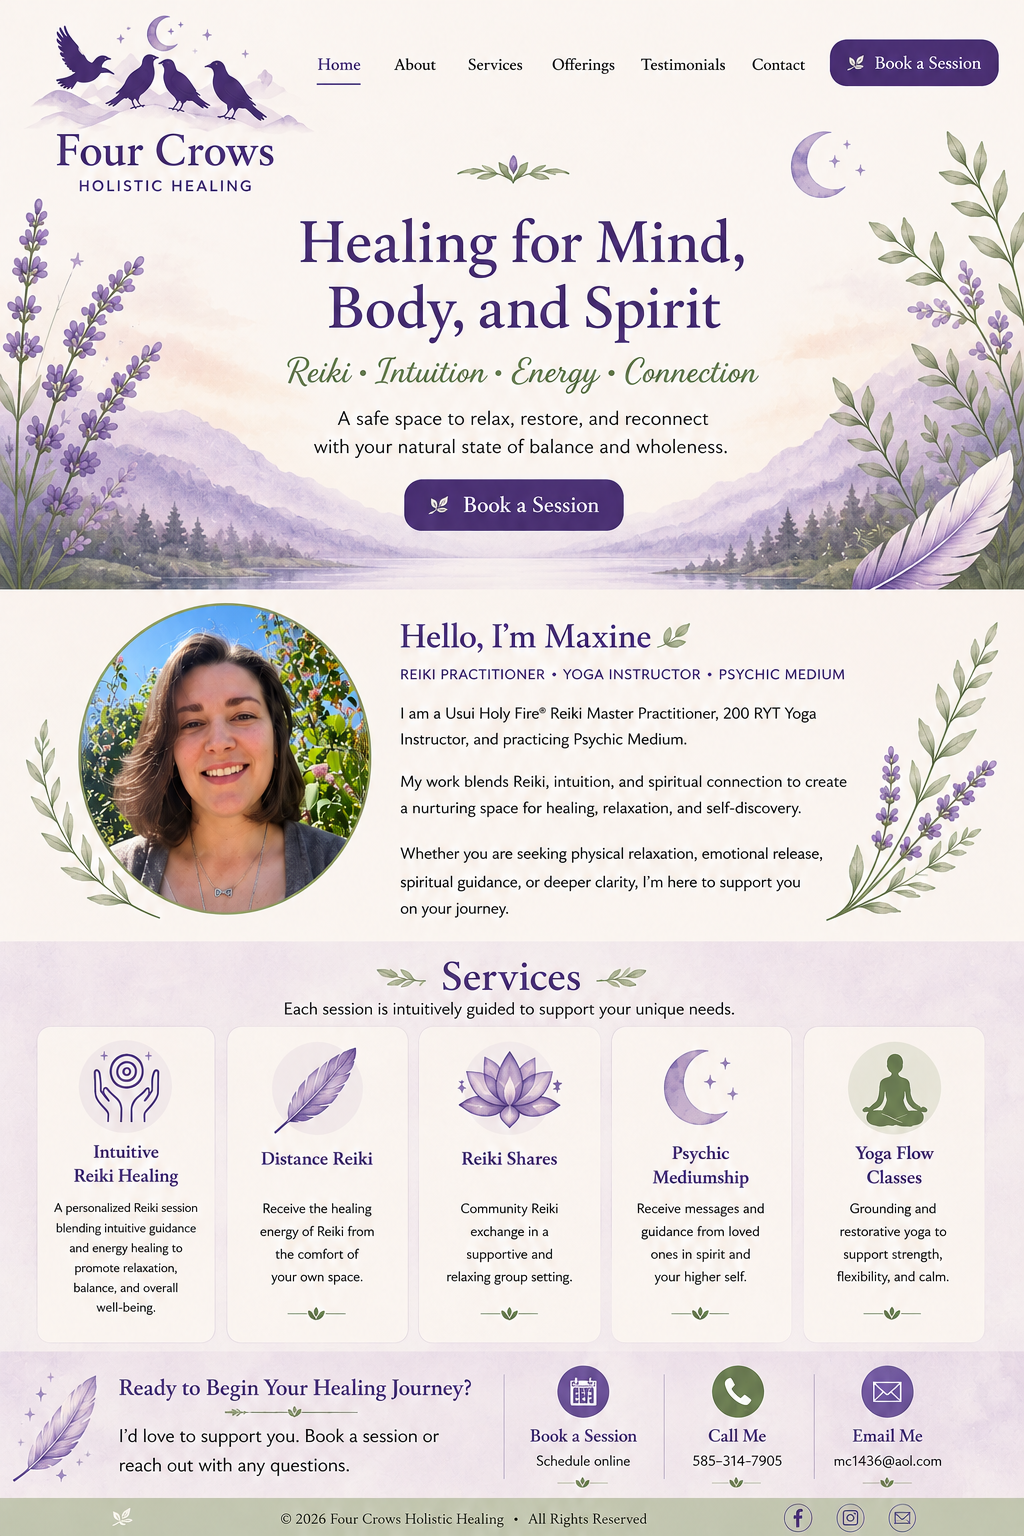
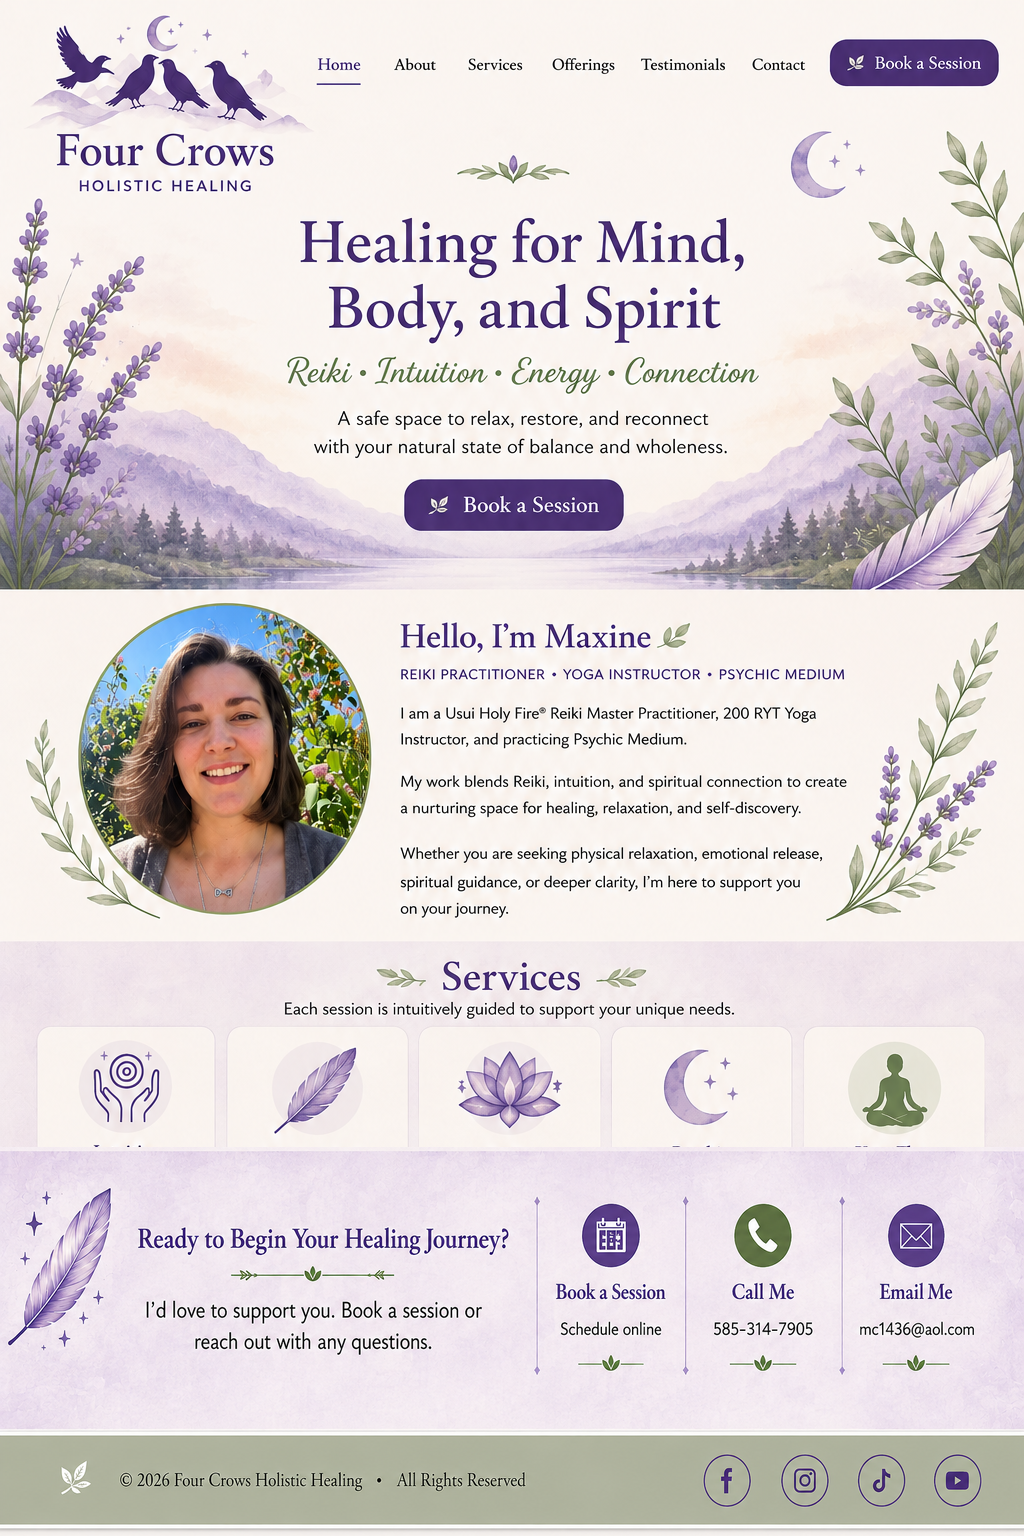
Add files via upload

Changed region(s): [[0.0, 0.75, 1.0, 1.0]]

diff --git a/index.html b/index.html
@@ -3,153 +3,167 @@
 <head>
 <meta charset="UTF-8">
 <meta name="viewport" content="width=device-width, initial-scale=1.0">
+<meta name="description" content="Four Crows Holistic Healing">
 <title>Four Crows Holistic Healing</title>
+
 <style>
-html,body{
-  margin:0;
-  padding:0;
-  background:#f7f1eb;
-}
-.page{
-  position:relative;
-  width:min(100%,1024px);
-  margin:0 auto;
-  line-height:0;
-}
-.page img{
-  display:block;
-  width:100%;
-  height:auto;
+html, body {
+  margin: 0;
+  padding: 0;
+  background: #f7f1eb;
 }
 
-/* Existing clickable areas */
-.hit{
-  position:absolute;
-  display:block;
-  z-index:10;
-  background:transparent;
-}
-.top-book{left:81.8%;top:2%;width:15.5%;height:3.2%}
-.hero-book{left:39.2%;top:31.5%;width:21.5%;height:3.7%}
-.bottom-book{left:50.0%;top:88.4%;width:14.5%;height:5.4%}
-.phone{left:64.8%;top:88.4%;width:14.0%;height:5.4%}
-.email{left:79.2%;top:88.4%;width:17.5%;height:5.4%}
-
-/*
-  Only this tiny patch covers the 3 baked-in footer icons.
-  It stays INSIDE the existing sage footer and does not alter page height.
-*/
-.social-patch{
-  position:absolute;
-  right:5.0%;
-  bottom:0.55%;
-  width:22.5%;
-  height:3.15%;
-  background:#aab196;
-  z-index:20;
-  display:flex;
-  align-items:center;
-  justify-content:flex-end;
-  gap:8px;
-  padding-right:2px;
-  line-height:normal;
+.page {
+  position: relative;
+  width: min(100%, 1024px);
+  margin: 0 auto;
+  line-height: 0;
 }
 
-/* Real clickable social icons */
-.social{
-  width:28px;
-  height:28px;
-  flex:0 0 28px;
-  border:1.5px solid #5f4380;
-  border-radius:50%;
-  display:flex;
-  align-items:center;
-  justify-content:center;
-  color:#5f4380;
-  background:#aab196;
-  text-decoration:none;
-  font-family:Arial,Helvetica,sans-serif;
-  font-weight:700;
-  font-size:15px;
-  line-height:1;
+.page img {
+  display: block;
+  width: 100%;
+  height: auto;
 }
-.social:hover,
-.social:focus{
-  background:#5f4380;
-  color:#fff;
-}
-.instagram{font-size:17px;font-weight:500}
-.tiktok{font-size:14px}
-.youtube{font-size:12px}
 
-@media(max-width:600px){
-  .social-patch{
-    right:3.5%;
-    width:25%;
-    gap:4px;
-    bottom:0.45%;
-  }
-  .social{
-    width:22px;
-    height:22px;
-    flex-basis:22px;
-    font-size:12px;
-  }
-  .instagram{font-size:13px}
-  .tiktok{font-size:11px}
-  .youtube{font-size:10px}
+.hit {
+  position: absolute;
+  display: block;
+  z-index: 10;
+  background: transparent;
+  border-radius: 999px;
+}
+
+.hit:focus-visible {
+  outline: 2px solid #654886;
+  outline-offset: 2px;
+}
+
+/* Main booking buttons */
+.top-book {
+  left: 81.5%;
+  top: 2.0%;
+  width: 16%;
+  height: 3.3%;
+}
+
+.hero-book {
+  left: 39.0%;
+  top: 31.2%;
+  width: 22%;
+  height: 3.8%;
+}
+
+/* Footer contact panel */
+.bottom-book {
+  left: 51.5%;
+  top: 79.5%;
+  width: 15%;
+  height: 8%;
+}
+
+.phone-link {
+  left: 67.0%;
+  top: 79.5%;
+  width: 14%;
+  height: 8%;
+}
+
+.email-link {
+  left: 82.0%;
+  top: 79.5%;
+  width: 16%;
+  height: 8%;
+}
+
+/* Click directly on the four visible icons in the sage footer */
+.facebook {
+  left: 68.4%;
+  top: 93.3%;
+  width: 6%;
+  height: 4.8%;
+}
+
+.instagram {
+  left: 75.3%;
+  top: 93.3%;
+  width: 6%;
+  height: 4.8%;
+}
+
+.tiktok {
+  left: 82.2%;
+  top: 93.3%;
+  width: 6%;
+  height: 4.8%;
+}
+
+.youtube {
+  left: 89.1%;
+  top: 93.3%;
+  width: 6%;
+  height: 4.8%;
 }
 </style>
 </head>
+
 <body>
+
 <div class="page">
+
   <img src="site-design.png" alt="Four Crows Holistic Healing">
 
   <a class="hit top-book"
      href="https://TheAlignedCollective.as.me/Maxine"
-     target="_blank" rel="noopener"
+     target="_blank"
+     rel="noopener"
      aria-label="Book a Session"></a>
 
   <a class="hit hero-book"
      href="https://TheAlignedCollective.as.me/Maxine"
-     target="_blank" rel="noopener"
+     target="_blank"
+     rel="noopener"
      aria-label="Book a Session"></a>
 
   <a class="hit bottom-book"
      href="https://TheAlignedCollective.as.me/Maxine"
-     target="_blank" rel="noopener"
+     target="_blank"
+     rel="noopener"
      aria-label="Book a Session"></a>
 
-  <a class="hit phone"
+  <a class="hit phone-link"
      href="tel:5853147905"
      aria-label="Call 585-314-7905"></a>
 
-  <a class="hit email"
+  <a class="hit email-link"
      href="mailto:mc1436@aol.com"
      aria-label="Email Four Crows Holistic Healing"></a>
 
-  <div class="social-patch" aria-label="Social media links">
-    <a class="social"
-       href="https://www.facebook.com/profile.php?id=61593364600948"
-       target="_blank" rel="noopener"
-       aria-label="Facebook">f</a>
+  <a class="hit facebook"
+     href="https://www.facebook.com/profile.php?id=61593364600948"
+     target="_blank"
+     rel="noopener"
+     aria-label="Facebook"></a>
 
-    <a class="social instagram"
-       href="https://www.instagram.com/fourcrows.h.h/"
-       target="_blank" rel="noopener"
-       aria-label="Instagram">◎</a>
+  <a class="hit instagram"
+     href="https://www.instagram.com/fourcrows.h.h/"
+     target="_blank"
+     rel="noopener"
+     aria-label="Instagram"></a>
 
-    <a class="social tiktok"
-       href="https://www.tiktok.com/@fourcrows.h.h"
-       target="_blank" rel="noopener"
-       aria-label="TikTok">♪</a>
+  <a class="hit tiktok"
+     href="https://www.tiktok.com/@fourcrows.h.h"
+     target="_blank"
+     rel="noopener"
+     aria-label="TikTok"></a>
 
-    <a class="social youtube"
-       href="https://www.youtube.com/@fourcrowsholistichealing"
-       target="_blank" rel="noopener"
-       aria-label="YouTube">▶</a>
-  </div>
+  <a class="hit youtube"
+     href="https://www.youtube.com/@fourcrowsholistichealing"
+     target="_blank"
+     rel="noopener"
+     aria-label="YouTube"></a>
 
 </div>
+
 </body>
 </html>
